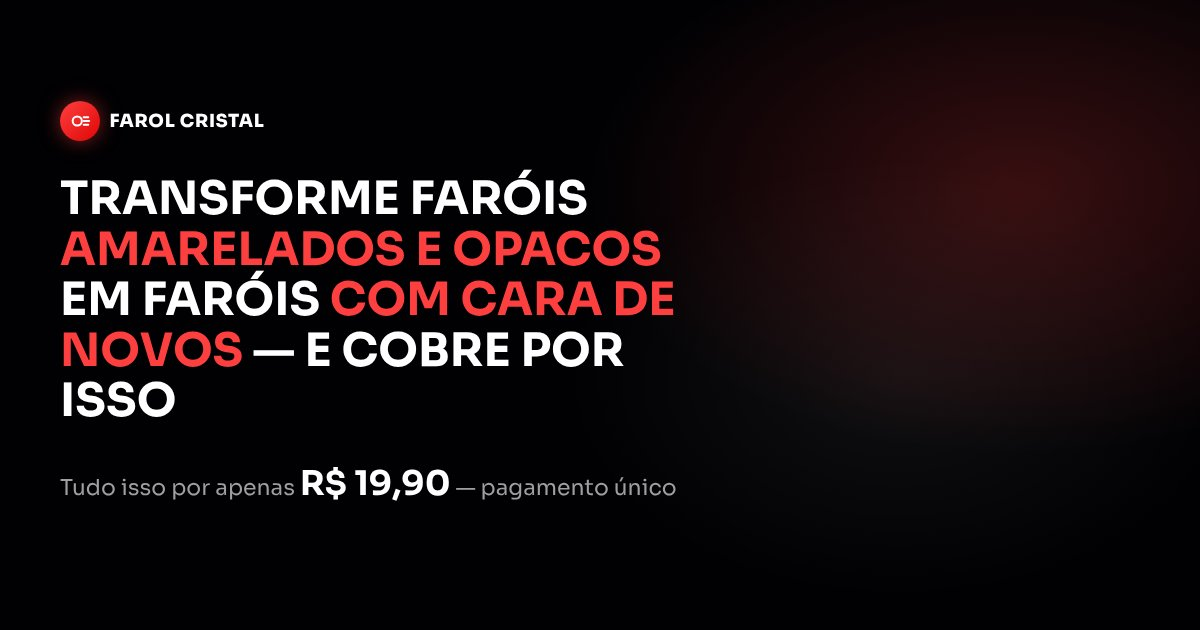
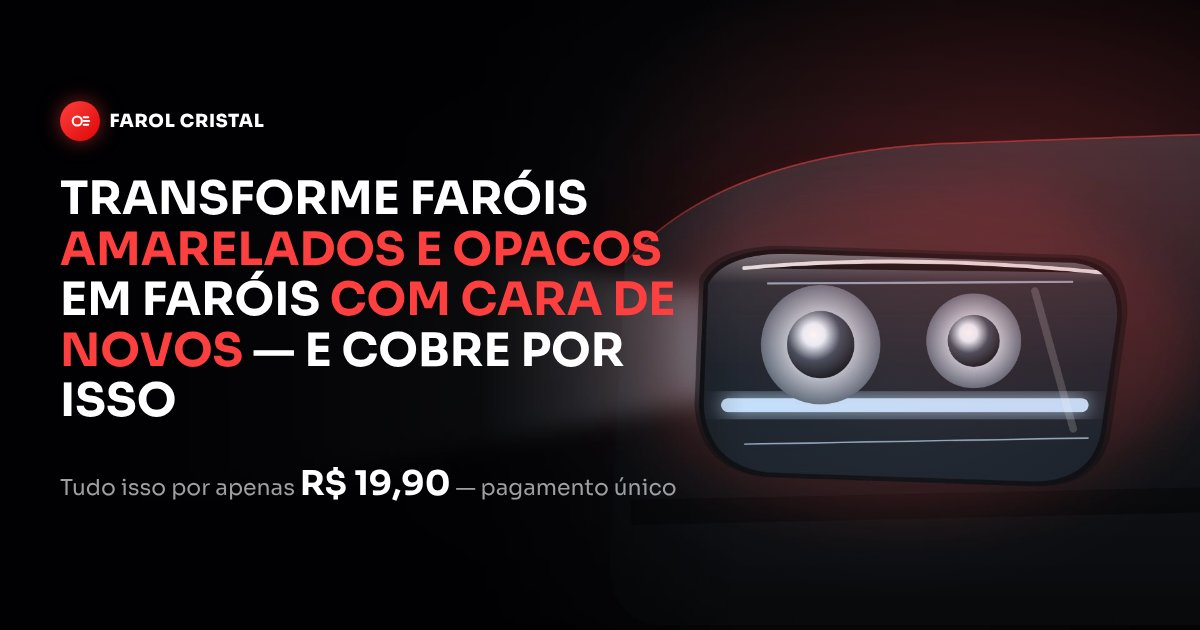
Adiciona ilustrações do hero e do antes/depois e ajusta copy para imagens ilustrativas
Claude-Session: https://claude.ai/code/session_01BpDRhaiYCZQjtGirbWSNqM

Changed region(s): [[0.4317, 0.2111, 1.0, 0.8143]]

diff --git a/restauracao-farois/index.html b/restauracao-farois/index.html
@@ -355,7 +355,7 @@
 <section class="section dark">
   <div class="container">
     <h2 class="title">Olha a <span class="red">diferença</span> que 1 hora faz</h2>
-    <p class="subtitle">Faróis reais restaurados com o método que você vai aprender. Sem filtro, sem truque de luz.</p>
+    <p class="subtitle">Do amarelado e opaco ao transparente e brilhante: é isso que o passo a passo do método faz pelo farol.</p>
     <div class="grid md-2">
       <!-- Imagens: img/antes-depois-1.jpg … img/antes-depois-4.jpg (4:3, antes à esquerda e depois à direita) -->
       <div class="ba"><span class="badge before">ANTES</span><span class="badge after">DEPOIS</span>
@@ -371,6 +371,7 @@
         <div class="ba-half"><div>foto antes</div><div>foto depois</div></div>
         <img src="img/antes-depois-4.jpg" alt="Farol antes e depois da restauração — exemplo 4" loading="lazy" onerror="this.remove()"></div>
     </div>
+    <p class="micro" style="text-align:center">Imagens ilustrativas. Substitua por fotos reais dos seus serviços assim que tiver.</p>
     <div class="cta-wrap"><a href="#oferta" class="cta">Quero esse resultado</a></div>
   </div>
 </section>
